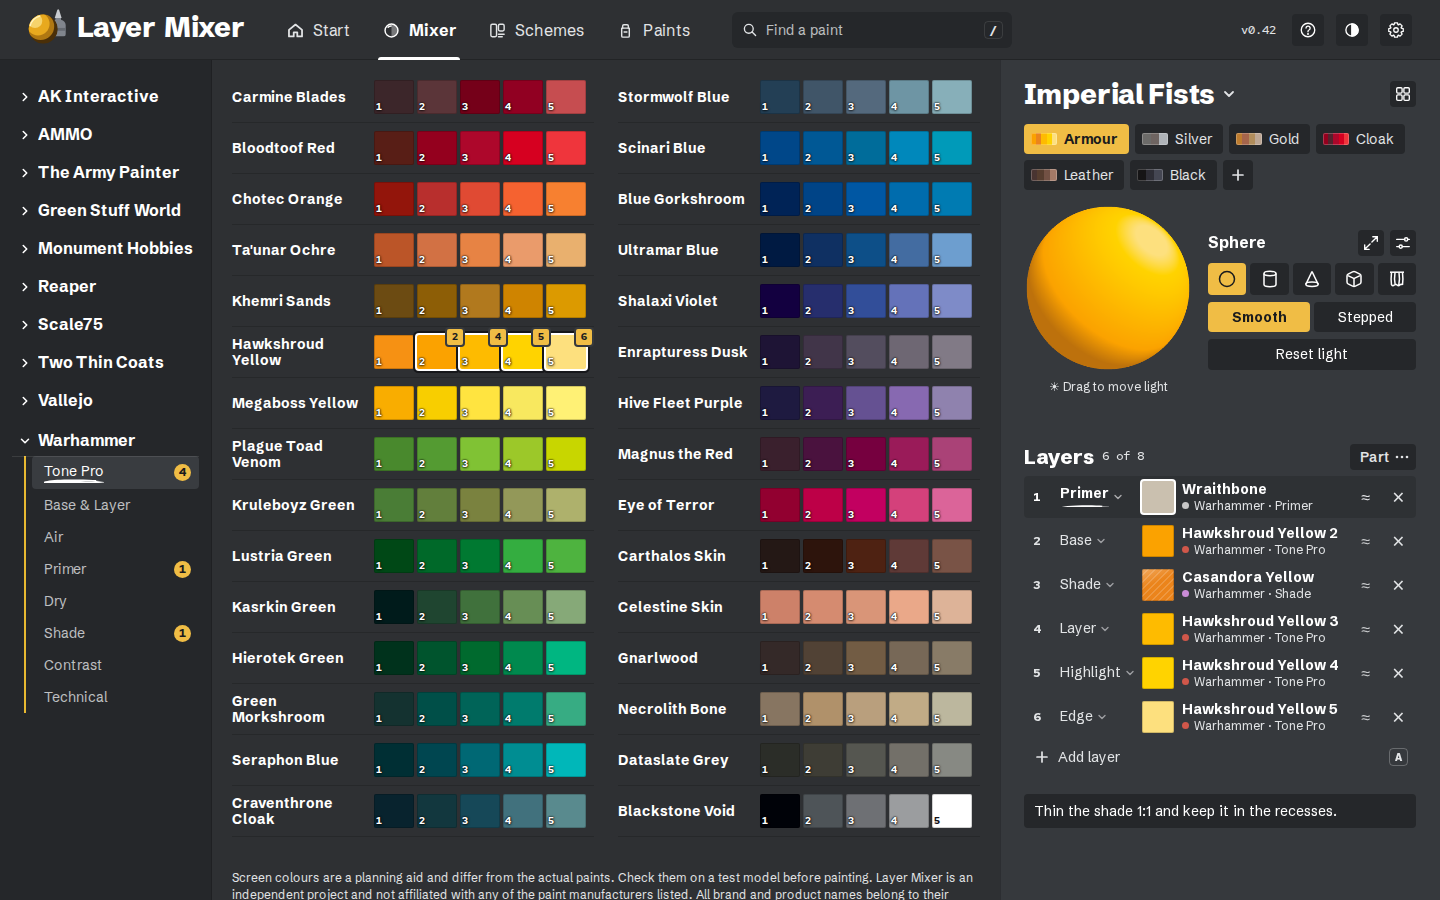
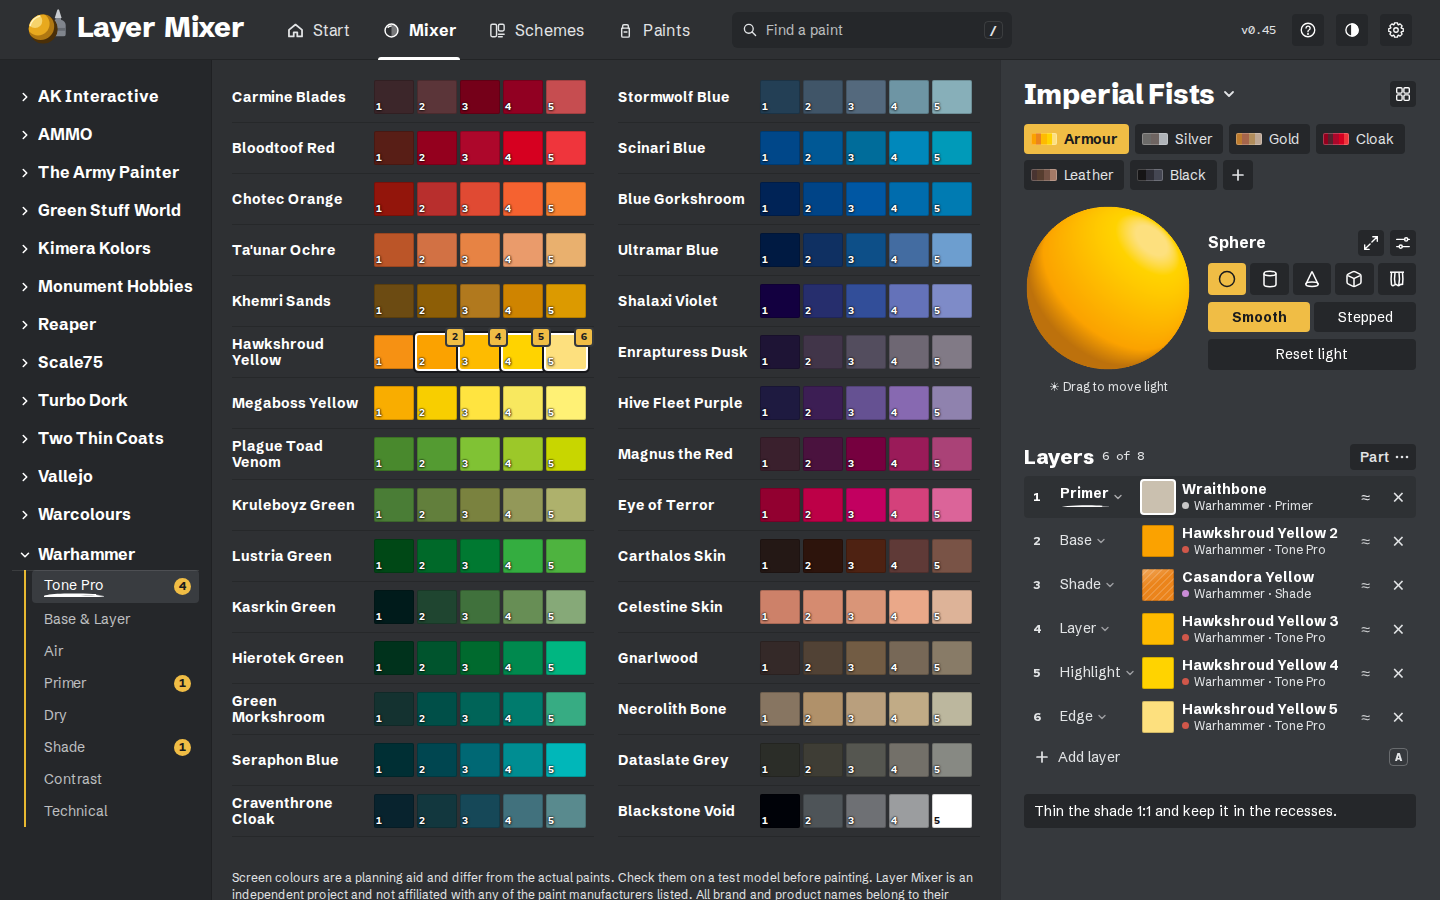
README: Windows app at the top, screenshots of 0.45

diff --git a/README.md b/README.md
@@ -2,18 +2,13 @@
 
 Plan your layering before you paint: combine acrylic paint tones from shadow to highlight and preview the result on a shaded form. Ranges can be mixed freely, and a scheme keeps all parts of a model together.
 
-**New in 0.40: the scheme creator.** Plan a whole model as a scheme: one part per area (armour, cloak, metal …), each with its own layers from primer to edge highlight, and a list of the paints you still need.
+**New in 0.45: Layer Mixer as a Windows app.** Download `layer-mixer-setup.exe` from the latest [release](../../releases/latest), install it and start Layer Mixer from the Start menu. The HTML file for the browser is still there.
 
 Vibecoded by Duempelhuber.
 
 ![Layer Mixer: Mixer in the dark theme](screenshot.png)
 
 ![Layer Mixer: a scheme in the light theme](screenshot-schemes.png)
-
-## Milestones
-
-- **0.40:** the scheme creator
-- **0.45:** Windows application available
 
 ## Included paint ranges
 
